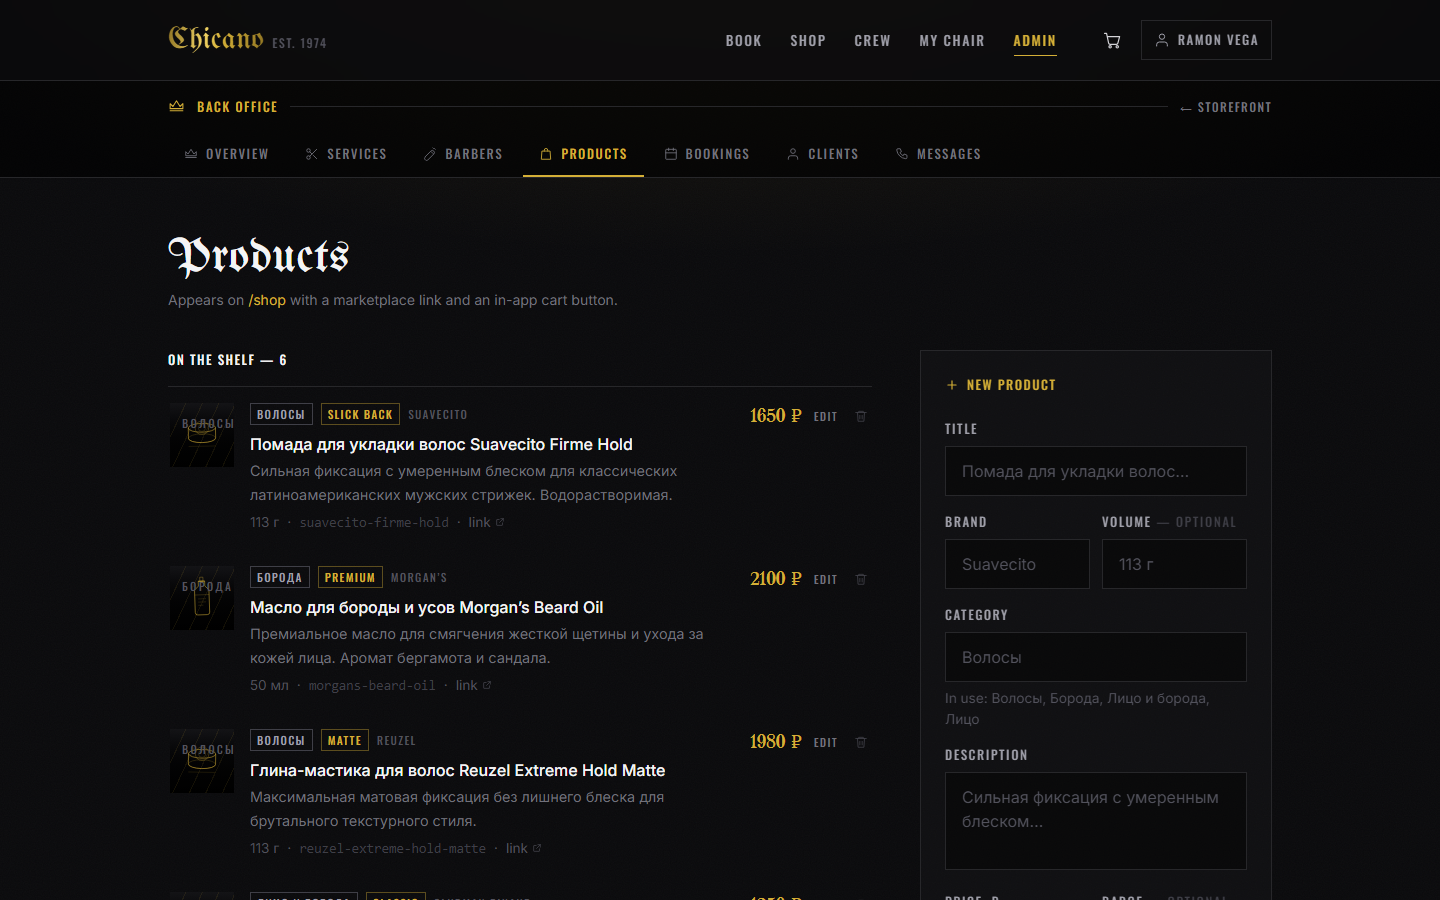
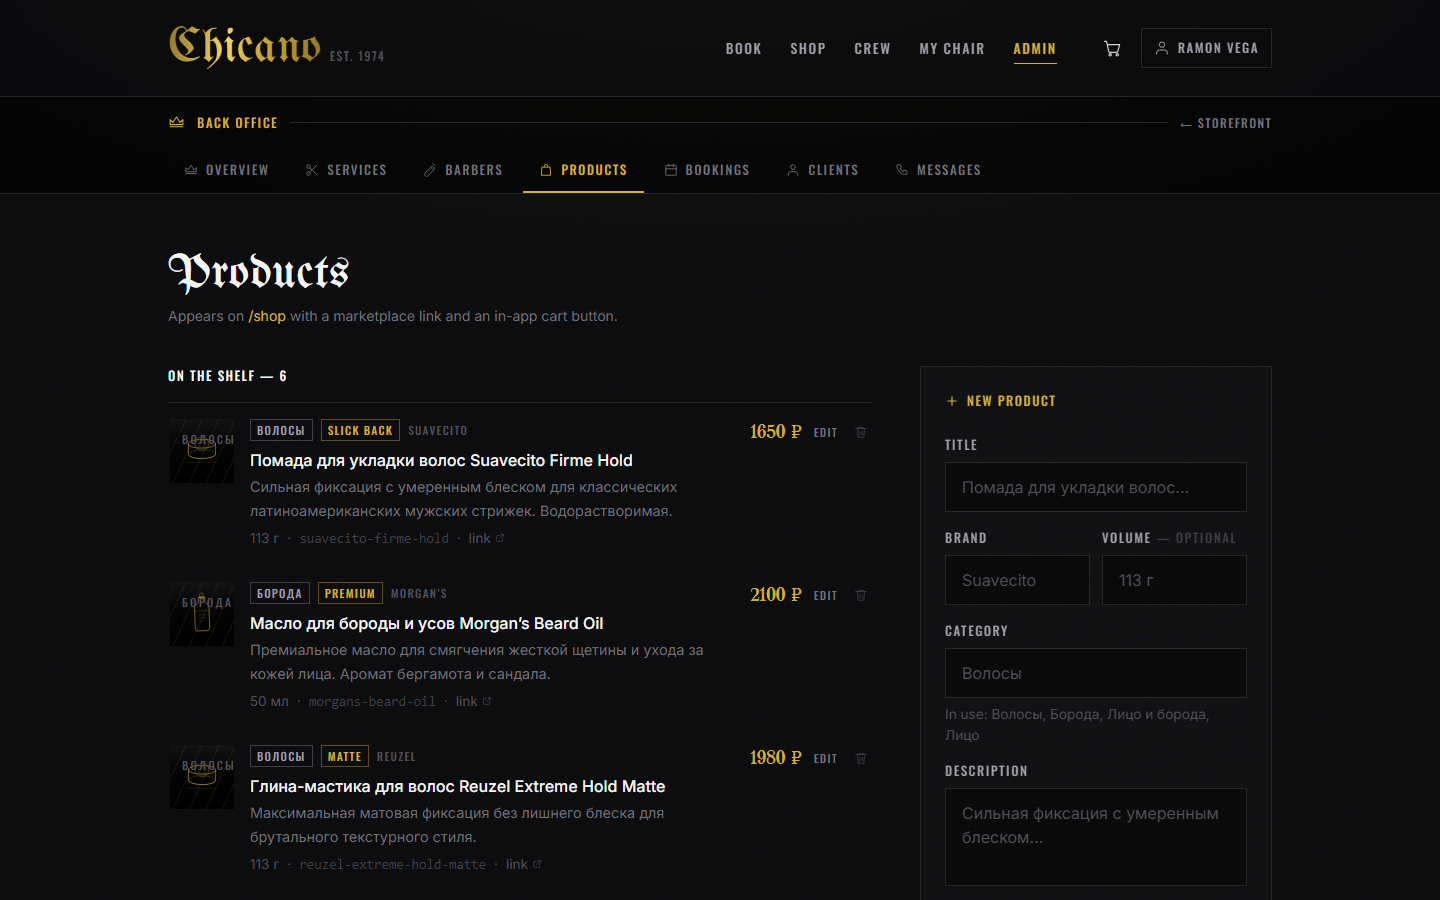
Keep scroll rails off the screen edge, enlarge the wordmark
The full-bleed pattern -mx-4 with px-4 was supposed to give a scroll rail a
lead-in gap while letting it bleed to the edge. Measured, the left gap was 0:
the outermost day card, shop filter and admin tab all sat flush against the
frame. The rails now live inside the section's own padding, which measures 16px
at both ends on a 390px viewport.

The sticky booking summary stays full-bleed on purpose -- it is a bar, not a
rail, and its contents already carry their own padding.

Wordmark goes 24px to 36px with the header from 64px to 80px. The mobile drawer
is anchored to the header height, so its top offset moves with it.

No new overflow at 320/360/390/414. Screenshots recaptured.

diff --git a/src/lib/components/Header.svelte b/src/lib/components/Header.svelte
@@ -43,10 +43,10 @@
 <header
 	class="sticky top-0 z-50 border-b border-zinc-800 bg-ink/85 backdrop-blur-md supports-[backdrop-filter]:bg-ink/70"
 >
-	<div class="mx-auto flex h-16 max-w-6xl items-center gap-3 px-4 sm:h-20 sm:px-6">
+	<div class="mx-auto flex h-20 max-w-6xl items-center gap-3 px-4 sm:h-24 sm:px-6">
 		<!-- Wordmark -->
 		<a href="/" class="group flex items-baseline gap-2" aria-label="Chicano Barbershop, home">
-			<span class="gothic foil text-2xl leading-none sm:text-3xl">Chicano</span>
+			<span class="gothic foil text-4xl leading-none sm:text-5xl">Chicano</span>
 			<span
 				class="display hidden text-[0.75rem] text-zinc-600 transition-colors group-hover:text-gold sm:inline"
 			>
@@ -133,7 +133,7 @@
 	<div
 		id="mobile-menu"
 		transition:fly={{ y: -12, duration: 200 }}
-		class="fixed inset-x-0 top-16 z-40 border-b border-zinc-800 bg-ink/98 backdrop-blur-md md:hidden"
+		class="fixed inset-x-0 top-20 z-40 border-b border-zinc-800 bg-ink/98 backdrop-blur-md md:hidden"
 	>
 		<nav class="flex flex-col px-4 py-2" aria-label="Mobile">
 			{#each links as link (link.href)}

diff --git a/src/routes/shop/+page.svelte b/src/routes/shop/+page.svelte
@@ -57,7 +57,7 @@
 	</div>
 
 	<!-- ------------------------------------------------------- filters -->
-	<div class="mt-10 -mx-4 flex snap-x gap-2 overflow-x-auto px-4 pb-2 sm:mx-0 sm:justify-center sm:px-0">
+	<div class="mt-10 flex snap-x gap-2 overflow-x-auto pb-2 sm:justify-center">
 		{#each [{ key: 'all', label: 'Everything' }, ...data.categories.map((c) => ({ key: c, label: c }))] as chip (chip.key)}
 			<button
 				type="button"

diff --git a/src/routes/booking/+page.svelte b/src/routes/booking/+page.svelte
@@ -255,7 +255,7 @@
 				</p>
 
 				<!-- Horizontal rail: two weeks of days, thumb-scrollable on a phone -->
-				<div class="-mx-4 mt-6 flex snap-x gap-2 overflow-x-auto px-4 pb-3 sm:mx-0 sm:px-0">
+				<div class="mt-6 flex snap-x gap-2 overflow-x-auto pb-3">
 					{#each data.dates as d, i (d)}
 						{@const free = freeCount(d)}
 						<!--

diff --git a/src/routes/admin/+layout.svelte b/src/routes/admin/+layout.svelte
@@ -37,7 +37,7 @@
 		</div>
 
 		{#if data.isAdmin}
-			<nav class="-mx-4 flex snap-x gap-1 overflow-x-auto px-4 sm:mx-0 sm:px-0" aria-label="Admin">
+			<nav class="flex snap-x gap-1 overflow-x-auto" aria-label="Admin">
 				{#each tabs as tab (tab.href)}
 					<a
 						href={tab.href}

diff --git a/AGREEMENTS.md b/AGREEMENTS.md
@@ -209,6 +209,15 @@ data/chicano.db         — файл БД (в .gitignore)
     нельзя — конвертация через canvas, фон собирается композитом по всем родителям с учётом
     альфы. Переполнение проверено на 320/360/390/414 — после укрупнения шрифтов чисто.
 
+- **2026-09-01** — горизонтальные ленты больше не полноширинные, логотип крупнее.
+  - Приём `-mx-4 … px-4` (лента во всю ширину экрана с внутренним отступом) на практике
+    давал левый отступ **0** — крайняя карточка прилипала к краю. Ленты (дни в записи,
+    фильтры магазина, вкладки админки) переведены внутрь обычных полей секции: замер
+    показывает по 16px с обеих сторон. Липкая нижняя панель на `/booking` осталась
+    полноширинной намеренно — там текст и так внутри своего `px-4`.
+  - Логотип 24 → 36px (`text-4xl sm:text-5xl`), шапка 64 → 80px. Мобильная шторка
+    привязана к высоте шапки, её `top-16` синхронно поднят до `top-20`.
+
 ### Заметки по окружению (не соглашения, а грабли)
 
 - Windows-шелл ломает кириллицу в аргументах командной строки: строки приходят как
